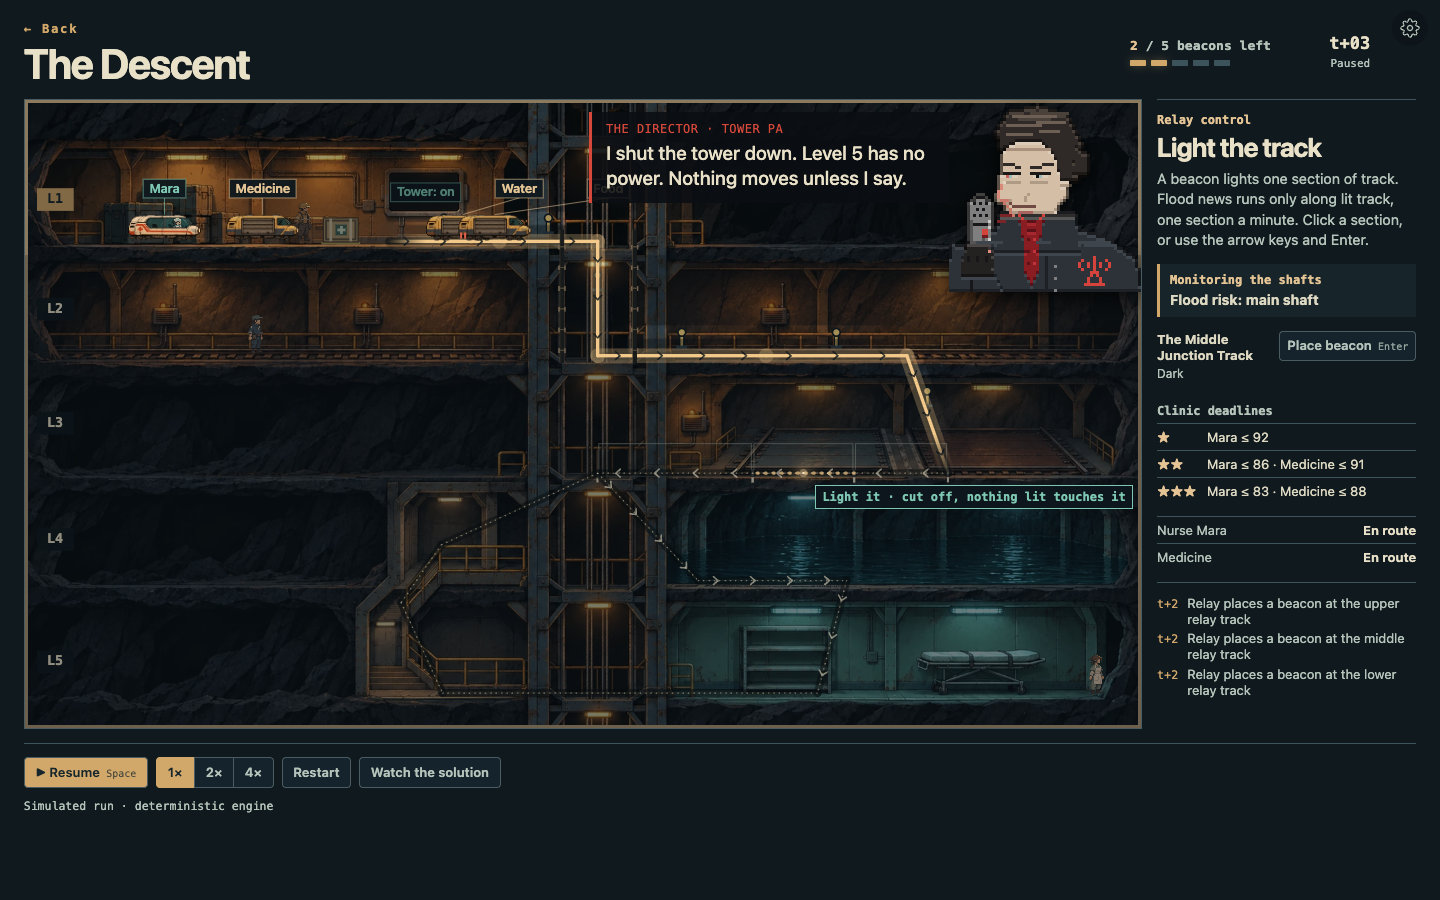
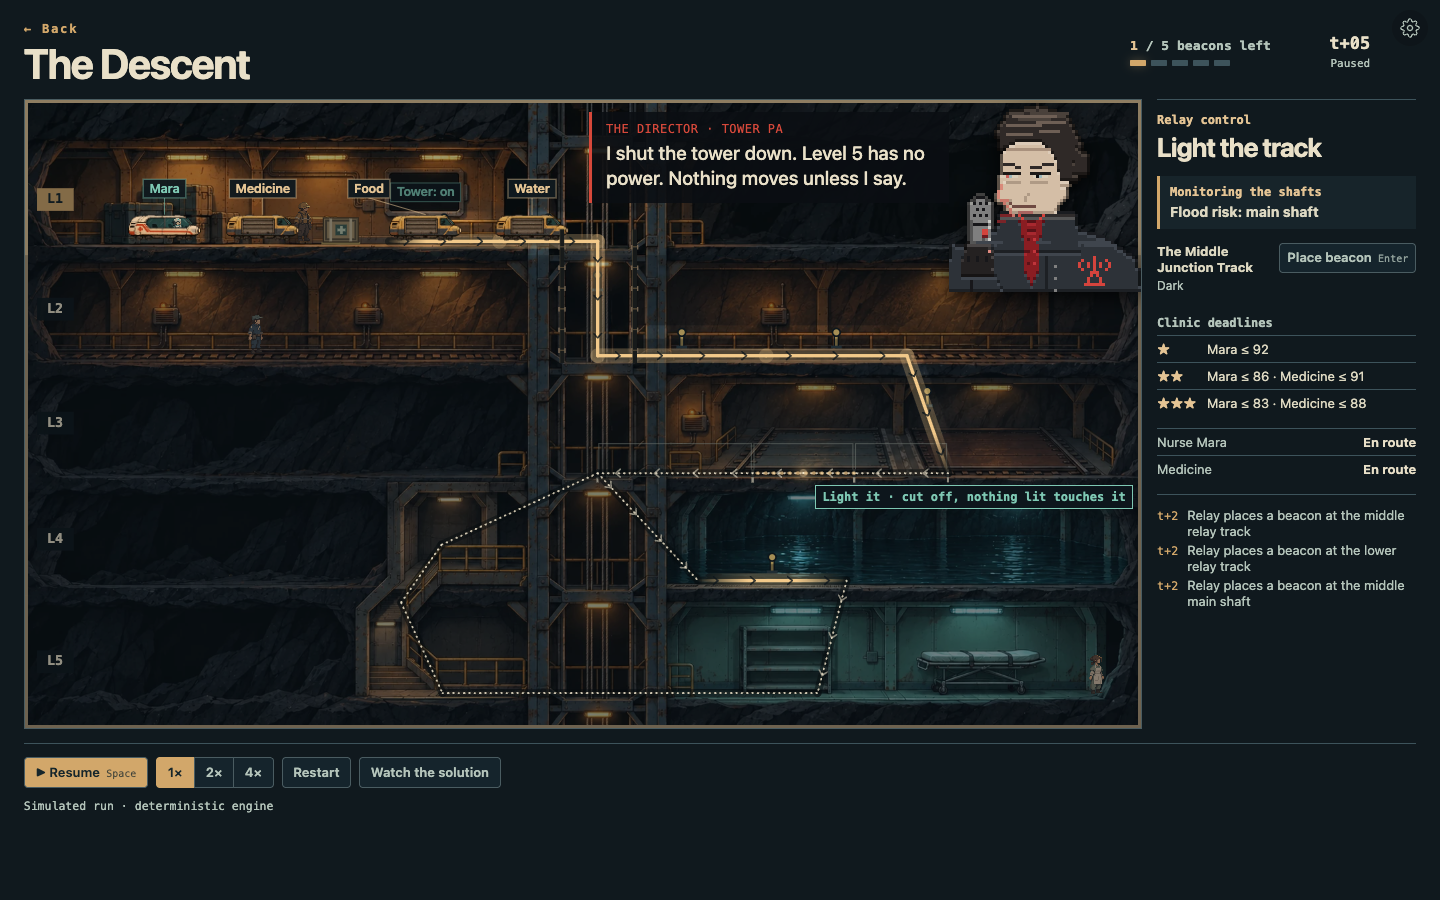
Planning phase + hold at each flood announcement; trim placement copy; brighter dark track
Start leaves the clock paused at t+0 for planning; Run starts it. The run holds once per flood
announcement and shows the warn-here chain; place, then resume. Explanatory sentence removed.

Changed region(s): [[0.7812, 0.1867, 1.0, 0.7778], [0.2188, 0.1867, 0.4062, 0.28], [0.5, 0.5911, 0.5938, 0.6533]]

diff --git a/hollow-world/src/echo-view/cutaway/live/useLive.ts b/hollow-world/src/echo-view/cutaway/live/useLive.ts
@@ -24,7 +24,13 @@ type LiveState = {
   feedback: string | null;
   stepMs: number;
   slow: boolean;
+  planning: boolean; // the intro is gone and the clock has not started: place beacons, then Run
+  floodHold: string | null; // the run paused itself for this announced flood (sector id) until the player resumes
 };
+
+/** Slow ticks between a flood's announcement and the automatic hold: the slow-motion beat runs into the pause. 0 with reduced motion. */
+export const FLOOD_HOLD_LEAD = 2;
+const named = (obs: Observation) => (obs.floodWarnings ?? []).flatMap((w) => (w.sectorId !== undefined ? [w.sectorId + "@" + w.at] : []));
 
 export function heldAtFlood(pod: Pod, obs: Observation): boolean {
   return pod.status === "holding" && obs.sectors.some((sector) => sector.sealed && sector.id === pod.path[pod.at + 1]);
@@ -71,6 +77,11 @@ export function createLive(spec: LiveSpec = LEVEL_1) {
   let events: LogEvent[] = [];
   let queued = new Set<string>();
   let feedback: string | null = null;
+  // Auto-pause at each flood announcement, once per flood: `announced` remembers every telegraph seen, `holdIn` counts the slow lead-in.
+  let announced = new Set(named(observation));
+  let holdIn: number | null = null;
+  let floodHold: string | null = null;
+  let reducedMotion = false;
   const listeners = new Set<() => void>();
 
   function snapshot(): LiveState {
@@ -97,6 +108,8 @@ export function createLive(spec: LiveSpec = LEVEL_1) {
       remaining,
       slow,
       stepMs: 600 / speed / (slow ? 0.35 : 1),
+      planning: !started && !ended && !solution,
+      floodHold,
     };
   }
   let state = snapshot();
@@ -121,6 +134,9 @@ export function createLive(spec: LiveSpec = LEVEL_1) {
     commands = [];
     queued = new Set();
     feedback = null;
+    announced = new Set(named(observation));
+    holdIn = null;
+    floodHold = null;
     publish();
   }
   function place(sectorId: string): Result {
@@ -134,11 +150,7 @@ export function createLive(spec: LiveSpec = LEVEL_1) {
     feedback = result.ok ? null : result.reason ?? "placement refused";
     if (result.ok) {
       commands = [...commands, command];
-      queued = new Set(queued).add(sectorId);
-      if (!started) {
-        started = true;
-        playing = true;
-      }
+      queued = new Set(queued).add(sectorId); // placing never starts the clock: planning waits for Run
     }
     publish();
     return result;
@@ -164,11 +176,23 @@ export function createLive(spec: LiveSpec = LEVEL_1) {
       (!warning(mission, previous) && warning(mission, observation)) ||
       (!warning(mission, observation) && !blindApproach(observation))
     ) override = false;
+    if (holdIn !== null && --holdIn <= 0) hold();
+    const fresh = named(observation).filter((id) => !announced.has(id));
+    if (fresh.length && !solution) {
+      fresh.forEach((id) => announced.add(id));
+      floodHold = fresh[0].split("@")[0];
+      holdIn = reducedMotion ? 0 : FLOOD_HOLD_LEAD;
+      if (holdIn === 0) hold();
+    } else fresh.forEach((id) => announced.add(id));
     if (complete(observation)) playing = false;
     publish();
   }
-  function start() { // the intro's Start button: unpause in one click
-    if (!state.ended) { playing = true; started = true; }
+  function hold() { // the flood is named: stop the clock so the player can light the warning chain
+    holdIn = null;
+    playing = false;
+  }
+  function start() { // Run: start (or resume) the clock
+    if (!state.ended) { playing = true; started = true; holdIn = null; floodHold = null; }
     publish();
   }
   function togglePause() {
@@ -176,8 +200,13 @@ export function createLive(spec: LiveSpec = LEVEL_1) {
     if (!state.ended) {
       playing = !playing;
       started = true;
+      holdIn = null; // pausing by hand during the lead-in is the beat; resuming clears the flood hold
+      if (playing) floodHold = null;
     }
     publish();
+  }
+  function setReducedMotion(value: boolean) {
+    reducedMotion = value;
   }
   function setSpeed(next: Speed) {
     speed = next;
@@ -196,6 +225,7 @@ export function createLive(spec: LiveSpec = LEVEL_1) {
     togglePause,
     start,
     setSpeed,
+    setReducedMotion,
     retry: () => reset(false), // the same flood on every retry (a new page load draws a new one), like a journey leg
     watchSolution: () => reset(true),
   };
@@ -223,6 +253,13 @@ export function useLive(spec: LiveSpec = FREE_PLAY) {
     }, Math.max(0, state.stepMs - (now - clock.current.at)));
     return () => clearTimeout(timer);
   }, [run, state]);
+  useEffect(() => {
+    const motion = matchMedia("(prefers-reduced-motion: reduce)");
+    const sync = () => run.setReducedMotion(motion.matches);
+    sync();
+    motion.addEventListener("change", sync);
+    return () => motion.removeEventListener("change", sync);
+  }, [run]);
   useEffect(() => {
     function hide() {
       if (document.hidden && run.getSnapshot().playing) run.togglePause();

diff --git a/hollow-world/src/echo-view/cutaway/live/LiveScreen.tsx b/hollow-world/src/echo-view/cutaway/live/LiveScreen.tsx
@@ -131,6 +131,8 @@ export function LiveScreen({ onExit, mission: legMission, legId, journeyMode = f
   const chain = useMemo(() => flood && warning ? warnChain(mission.world.sectors, flood.id, mara.path, mara.at) : null, [flood?.id, warning, mission, mara.path.join(","), mara.at]); // eslint-disable-line react-hooks/exhaustive-deps
   const floodMark = useMemo(() => flood && (warning || sealed) ? { id: flood.id, sealed } : null, [flood?.id, warning, sealed]); // eslint-disable-line react-hooks/exhaustive-deps
   const held = obs.pods.filter((p) => heldAtFlood(p, obs));
+  const holdForFlood = !!live.floodHold && !playing && !over; // the run paused itself at the flood announcement
+  const waiting = !over && !solution && (live.planning || holdForFlood); // planning or held: Run is the next move
   const placementsOpen = !over && !solution && remaining > 0;
   const canPlace = (id: string) =>
     placementsOpen && !queued.has(id) && !building.has(id) && obs.sectors.find((s) => s.id === id)?.beacon === false;
@@ -274,9 +276,8 @@ export function LiveScreen({ onExit, mission: legMission, legId, journeyMode = f
   function toggleRun() {
     if (introDone) live.togglePause();
   }
-  function start() { // the intro's Start: dismiss and run in one click
+  function start() { // the intro's Start: dismiss into planning, the clock still at t+0 (Run or Space starts it)
     setIntroDone(true);
-    live.start();
   }
   /** Journey mode: hand the finished leg to the journey (a win moves on; a loss applies its cost and goes to the retry camp). Once only. */
   function endLeg(continueAnyway = false) {
@@ -339,6 +340,10 @@ export function LiveScreen({ onExit, mission: legMission, legId, journeyMode = f
             <span>
               {over
                 ? "Run ended"
+                : live.planning
+                ? "Planning"
+                : holdForFlood
+                ? "Held for the flood"
                 : !playing
                 ? "Paused"
                 : live.slow
@@ -416,6 +421,7 @@ export function LiveScreen({ onExit, mission: legMission, legId, journeyMode = f
             </div>
             <canvas ref={canvas} role="img" aria-label="Five tunnel levels with moving pods and trackside beacons" />
             <canvas ref={fxCanvas} className="live-overlay" aria-hidden="true" />
+            {waiting && introDone && <span className="live-ready-chip" role="status">{holdForFlood ? "Held for the flood · Run when ready" : "Place beacons · Run when ready"}</span>}
             {warning && <span className="live-flood-chip">Flood in {Math.max(0, untilFlood)}</span>}
             {hover && !over && introDone && (
               <span
@@ -463,10 +469,7 @@ export function LiveScreen({ onExit, mission: legMission, legId, journeyMode = f
               <>
                 <div className="eyebrow live-eyebrow">Relay control{solution ? " · solution replay" : ""}</div>
                 <h2>Light the track</h2>
-                <p className="live-instructions" id="live-rail-help">
-                  A beacon lights one section of track. Flood news runs only along lit track, one section a minute. Click a
-                  section, or use the arrow keys and Enter.
-                </p>
+                <p className="live-sr" id="live-rail-help">Click a section of track, or use the arrow keys and Enter, to place a beacon.</p>
                 <div className={"live-alert" + (sealed ? " danger" : warning ? " warning" : "")}>
                   <small>{pressure}</small>
                   <strong>
@@ -532,8 +535,8 @@ export function LiveScreen({ onExit, mission: legMission, legId, journeyMode = f
       </main>
       <footer inert={!introDone}>
         <nav aria-label="Descent controls">
-          <button className="live-primary" onClick={toggleRun} disabled={over}>
-            {playing ? "Ⅱ Pause" : obs.tick === 0 ? "▶ Start run" : "▶ Resume"} <kbd>Space</kbd>
+          <button className={"live-primary" + (waiting ? " ready" : "")} onClick={toggleRun} disabled={over}>
+            {playing ? "Ⅱ Pause" : live.planning ? "▶ Run" : "▶ Resume"} <kbd>Space</kbd>
           </button>
           <div className="switch" role="group" aria-label="Run speed">
             {([1, 2, 4] as const).map((speed) => (

diff --git a/hollow-world/src/echo-view/cutaway/live/planning.test.ts b/hollow-world/src/echo-view/cutaway/live/planning.test.ts
@@ -1,0 +1,78 @@
+import assert from "node:assert/strict";
+import { test } from "node:test";
+import { descentLive } from "../../../echo/descent";
+import { descentLive2 } from "../../../echo/descent2";
+import { createLive, FLOOD_HOLD_LEAD } from "./useLive";
+import { warnChain } from "./track-light";
+
+const level2 = { build: () => descentLive2(), solution: () => [] };
+
+/** Drives a run the way useLive's timer does: a tick only while playing. Resumes every self-pause and returns the ticks it paused at. */
+function play(run: ReturnType<typeof createLive>, onHold?: () => void) {
+  const holds: number[] = [];
+  for (let guard = 0; guard < 400 && !run.getSnapshot().ended; guard++) {
+    if (!run.getSnapshot().playing) {
+      holds.push(run.getSnapshot().observation.tick);
+      onHold?.();
+      run.togglePause();
+    }
+    run.step();
+  }
+  return holds;
+}
+
+test("planning: the intro leaves the clock stopped at t+0; placing does not start it; Run does", () => {
+  const run = createLive();
+  assert.equal(run.getSnapshot().planning, true);
+  assert.equal(run.getSnapshot().playing, false);
+  assert.equal(run.place("link0").ok, true);
+  assert.equal(run.place("link1").ok, true);
+  const s = run.getSnapshot();
+  assert.deepEqual([s.playing, s.planning, s.observation.tick], [false, true, 0]);
+  run.togglePause(); // Space or Run
+  assert.deepEqual([run.getSnapshot().playing, run.getSnapshot().planning], [true, false]);
+  run.togglePause(); // the next press pauses
+  assert.equal(run.getSnapshot().playing, false);
+  assert.equal(run.getSnapshot().planning, false);
+  run.retry();
+  assert.equal(run.getSnapshot().planning, true);
+});
+
+test("the flood announcement pauses the run once, after the slow-motion lead-in", () => {
+  const run = createLive();
+  const { sealAt, floodReveal } = run.getSnapshot().mission;
+  const reveal = sealAt! - floodReveal!.lead;
+  run.togglePause();
+  const holds = play(run);
+  assert.deepEqual(holds, [reveal + FLOOD_HOLD_LEAD]);
+});
+
+test("reduced motion pauses on the announcement tick itself", () => {
+  const run = createLive();
+  run.setReducedMotion(true);
+  const { sealAt, floodReveal } = run.getSnapshot().mission;
+  run.togglePause();
+  assert.deepEqual(play(run), [sealAt! - floodReveal!.lead]);
+});
+
+test("two floods, two holds: once each, never again on resume", () => {
+  const run = createLive(level2);
+  run.togglePause();
+  const holds = play(run);
+  assert.equal(holds.length, 2);
+  assert.ok(holds[0] < holds[1]);
+});
+
+test("resume continues normally: lighting the warn-here chain at the hold saves Mara", () => {
+  const run = createLive({ build: (a) => descentLive({ attempt: a }), solution: () => [] });
+  run.togglePause();
+  play(run, () => {
+    const s = run.getSnapshot();
+    const mara = s.observation.pods.find((p) => p.nurse)!;
+    assert.equal(s.floodHold, s.mission.sealSectorId);
+    for (const id of warnChain(s.mission.world.sectors, s.floodHold!, mara.path, mara.at)!) assert.equal(run.place(id).ok, true);
+  });
+  const end = run.getSnapshot();
+  assert.notEqual(end.observation.pods.find((p) => p.nurse)!.arriveTick, null);
+  assert.equal(end.floodHold, null);
+});

diff --git a/hollow-world/src/echo-view/cutaway/live/live.css b/hollow-world/src/echo-view/cutaway/live/live.css
@@ -103,3 +103,9 @@
 
 .descent-live .live-eyebrow, .descent-live .live-goals-title { text-transform: none; letter-spacing: 0; font: 600 12px var(--mono); color: var(--text2); }
 .descent-live .live-eyebrow { color: var(--amberHi); }
+
+/* Planning and the flood hold: Run is the next move. A static ring on the primary control and one short label on the map. */
+.descent-live .live-primary.ready { box-shadow: 0 0 0 3px var(--bg), 0 0 0 4px var(--amberHi); }
+.descent-live .live-ready-chip { position: absolute; left: 4.8%; top: 4%; z-index: 4; padding: 4px 8px; background: var(--stage);
+  border: 1px solid var(--amber); color: var(--amberHi); font: 600 12px/1.2 var(--mono); pointer-events: none; white-space: nowrap; }
+.descent-live .live-sr { position: absolute; width: 1px; height: 1px; overflow: hidden; clip-path: inset(50%); white-space: nowrap; }

diff --git a/hollow-world/src/echo-view/cutaway/live/track-light.css b/hollow-world/src/echo-view/cutaway/live/track-light.css
@@ -7,7 +7,8 @@
 
 /* Every section starts dark: a shadowed bed with a faint rail line, so the track reads as something you can light. */
 .descent-live .tl-dark .bed { stroke: #060b0e; stroke-width: 12px; opacity: .5; }
-.descent-live .tl-dark .rail { stroke: var(--tl-ivory); stroke-width: 2px; stroke-dasharray: 1 7; opacity: .45; }
+.descent-live .tl-dark .rail { stroke: var(--tl-ivory); stroke-width: 2.5px; stroke-dasharray: 1 7; opacity: .6; }
+.descent-live .tl-dark .rail.deep { stroke-width: 3px; opacity: .85; } /* levels 3 to 5: the art is darkest there, a dim projector loses thin dots */
 
 /* Lit: a soft wash and a lamp-coloured core. A lit end that meets a lit neighbour is full; an end that meets nothing fades out. */
 .descent-live .tl-lit .glow { stroke: var(--tl-g); stroke-width: 22px; opacity: .26; }

diff --git a/hollow-world/src/echo-view/cutaway/live/live.test.ts b/hollow-world/src/echo-view/cutaway/live/live.test.ts
@@ -81,6 +81,8 @@ test("pause, speed, and slow override control the advertised cadence", () => {
   while (run.getSnapshot().observation.tick < 33) run.step(); // the telegraph (t33 for the first flood) starts the slow-motion window
   assert.equal(run.getSnapshot().slow, true);
   assert.equal(run.getSnapshot().stepMs, 300 / 0.35);
+  assert.equal(run.getSnapshot().playing, false); // the flood announcement held the run (planning.test.ts); resume, then pause by hand
+  run.togglePause();
   run.togglePause();
   assert.equal(run.getSnapshot().playing, false);
   assert.equal(run.getSnapshot().slow, false);

diff --git a/hollow-world/src/echo-view/cutaway/live/TrackLight.tsx b/hollow-world/src/echo-view/cutaway/live/TrackLight.tsx
@@ -68,7 +68,7 @@ function TrackLightBody({ graph, lit, pending, route, flood, chain, pulses, prev
         </defs>
         <g className="tl-dark">
           {all.map((t) => <path key={t.sectorId} className="bed" d={d(t)} />)}
-          {all.filter((t) => !shown.has(t.sectorId)).map((t) => <path key={t.sectorId} className="rail" d={d(t)} />)}
+          {all.filter((t) => !shown.has(t.sectorId)).map((t) => <path key={t.sectorId} className={"rail" + (t.level >= 3 ? " deep" : "")} d={d(t)} />)}
         </g>
         {chain && chain.map((id) => {
           const t = tracks.get(id);
